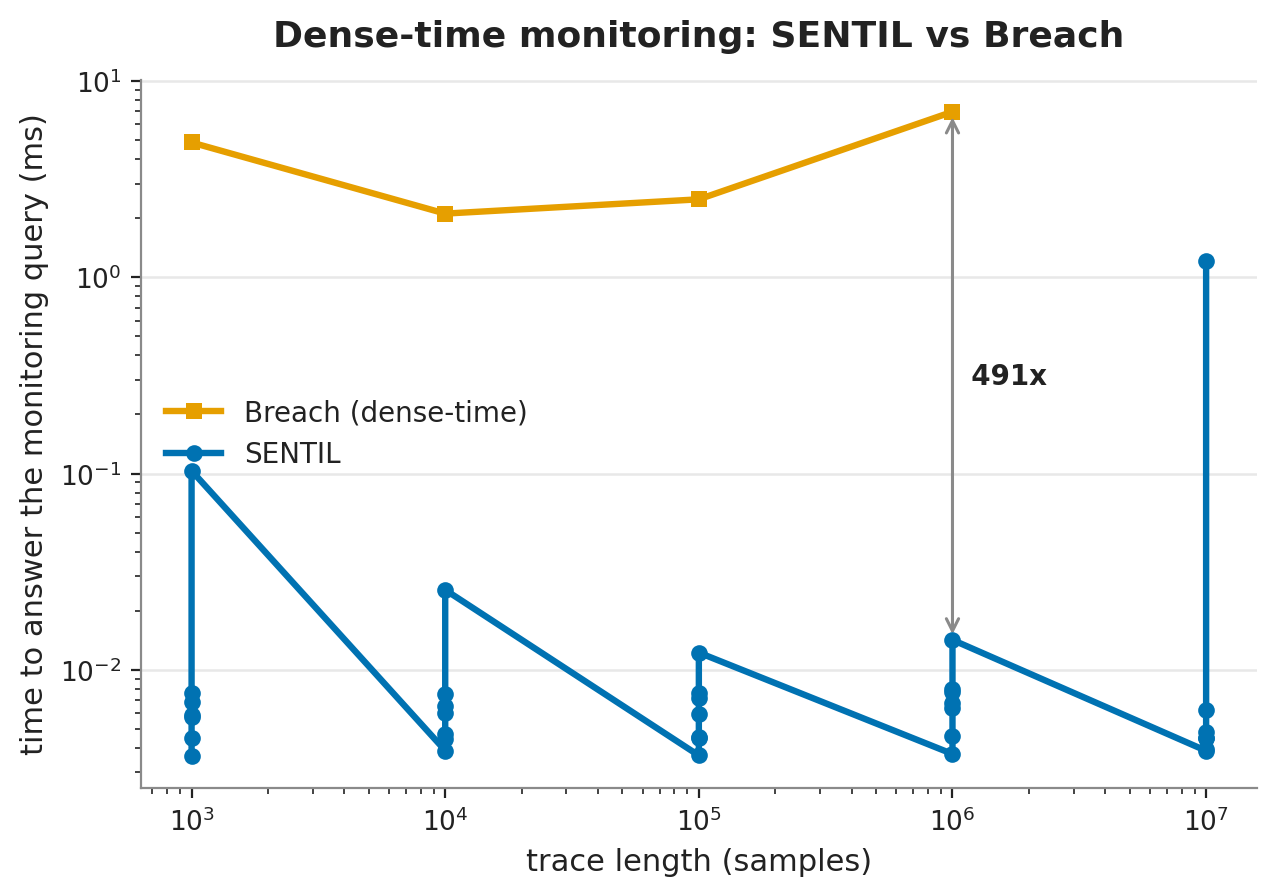
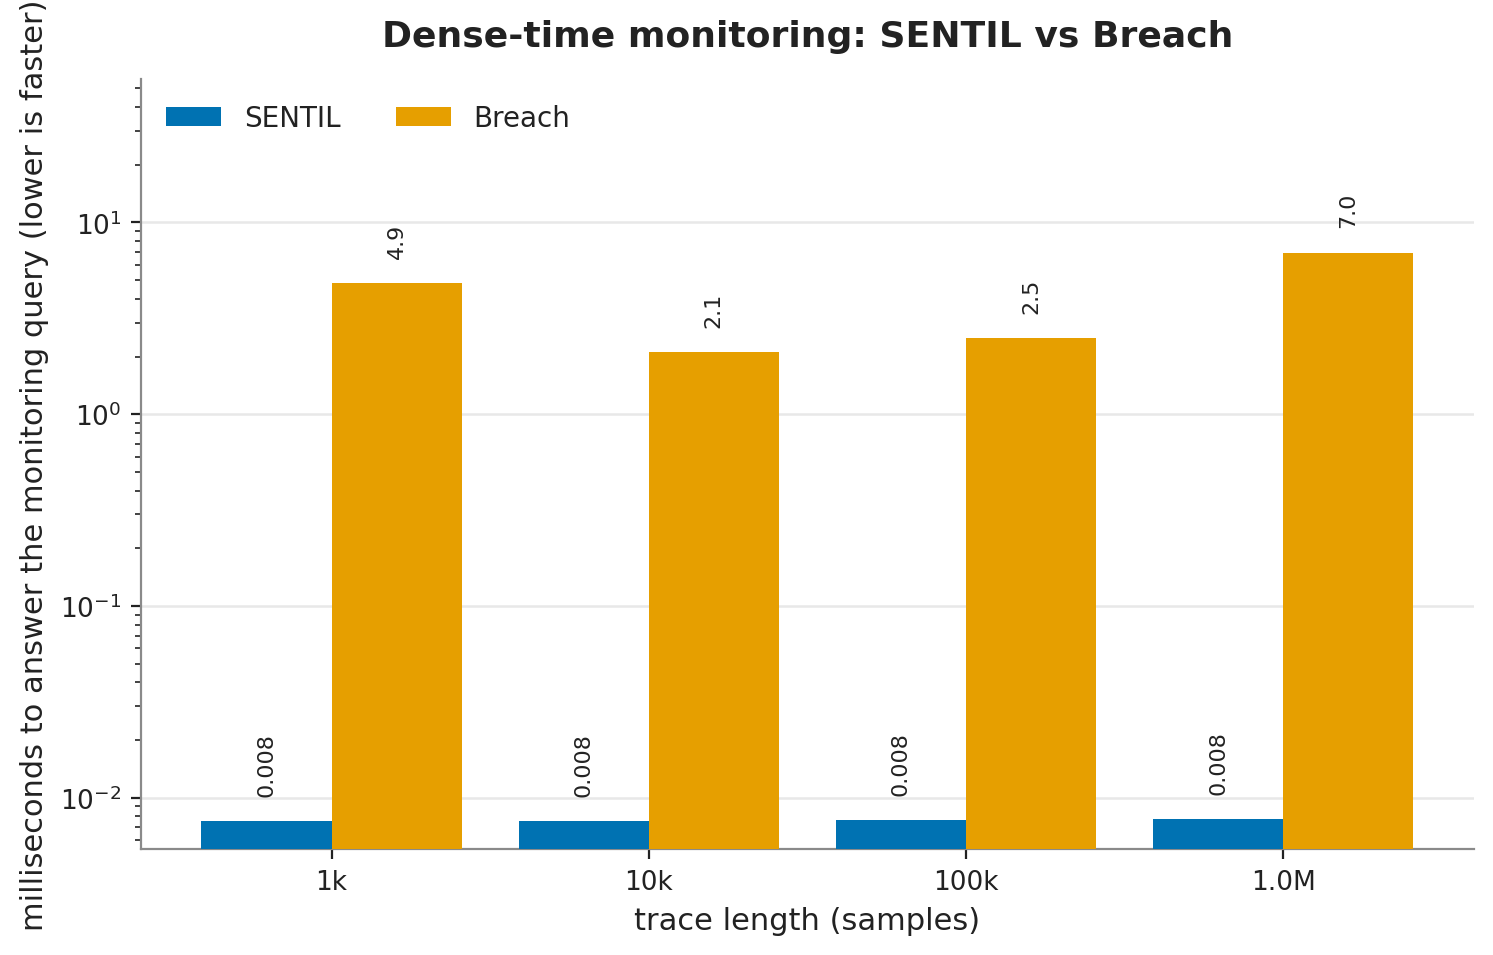
redraw the comparisons as labeled bar charts with the real times, drop the abstract summary

diff --git a/benchmarks/runners/plot.py b/benchmarks/runners/plot.py
@@ -30,44 +30,70 @@ def length_series(records, tool, lang, question, benchmark="scalability/length")
     pts = sorted((r["size"], r["timing"]["mean_ms"]) for r in rows)
     return [p[0] for p in pts], [p[1] for p in pts]
 
-def discrete_offline(records):
-    sx, sy = length_series(records, "sentil", "full_signal")
-    rx, ry = length_series(records, "rtamt", "full_signal")
-    mx, my = length_series(records, "moonlight", "full_signal")
-    if not sx or not rx:
-        return
-    fig, ax = plt.subplots()
-    ax.plot(rx, ry, color=style.TOOL["rtamt"], marker="s", label="RTAMT")
-    if mx:
-        ax.plot(mx, my, color=style.TOOL["moonlight"], marker="^", label="MoonLight")
-    style.hero_line(ax, sx, sy, "SENTIL")
-    shared = sorted(set(sx) & set(rx))[-1]
-    style.annotate_speedup(ax, shared, dict(zip(sx, sy))[shared], dict(zip(rx, ry))[shared],
-                           f"{dict(zip(rx, ry))[shared] / dict(zip(sx, sy))[shared]:.0f}x")
-    ax.set_xscale("log"); ax.set_yscale("log")
+def _series(records, tool, lang, question, benchmark="scalability/length"):
+    return {r["size"]: r["timing"]["mean_ms"] for r in records
+            if r.get("tool") == tool and r.get("language") == lang
+            and r.get("benchmark") == benchmark and r.get("question") == question}
+
+def _fmt_ms(v):
+    if v >= 100:
+        return f"{v:,.0f}"
+    if v >= 1:
+        return f"{v:.1f}"
+    return f"{v:.3f}".rstrip("0").rstrip(".")
+
+def _human_size(n):
+    if n >= 1_000_000:
+        return f"{n // 1_000_000}M"
+    if n >= 1000:
+        return f"{n // 1000}k"
+    return str(int(n))
+
+def bar_comparison(specs, sizes, ylabel, title, fname):
+    # specs is [(label, {size: ms}, color)]
+    fig, ax = plt.subplots(figsize=(8.6, 5.0))
+    m = len(specs)
+    width = 0.82 / m
+    top = 0.0
+    for i, (label, data, color) in enumerate(specs):
+        xs = [j + i * width for j in range(len(sizes))]
+        vals = [data.get(s, 0.0) for s in sizes]
+        top = max(top, max(vals))
+        rects = ax.bar(xs, vals, width=width, label=label, color=color, zorder=3)
+        for rect, v in zip(rects, vals):
+            if v > 0:
+                ax.text(rect.get_x() + rect.get_width() / 2, v * 1.35, _fmt_ms(v),
+                        ha="center", va="bottom", fontsize=8, rotation=90, color=style.INK)
+    ax.set_yscale("log")
+    ax.set_ylim(top=top * 8)
+    ax.set_xticks([j + width * (m - 1) / 2 for j in range(len(sizes))])
+    ax.set_xticklabels([_human_size(s) for s in sizes])
     ax.set_xlabel("trace length (samples)")
-    ax.set_ylabel("time for the whole robustness signal (ms)")
-    ax.set_title("Offline discrete STL: SENTIL vs RTAMT and MoonLight")
-    ax.legend(loc="upper left")
-    save(fig, "discrete_offline.png")
+    ax.set_ylabel(ylabel)
+    ax.set_title(title)
+    ax.legend(loc="upper left", ncol=m)
+    save(fig, fname)
+
+def discrete_offline(records):
+    s, rt = _series(records, "sentil", "full_signal"), _series(records, "rtamt", "full_signal")
+    ml = _series(records, "moonlight", "full_signal")
+    if not s or not rt:
+        return
+    sizes = sorted(set(s) & set(rt))
+    specs = [("SENTIL", s, style.TOOL["sentil"]), ("RTAMT", rt, style.TOOL["rtamt"])]
+    if ml:
+        specs.append(("MoonLight", ml, style.TOOL["moonlight"]))
+    bar_comparison(specs, sizes, "milliseconds to score the whole signal (lower is faster)",
+                   "Offline discrete STL: SENTIL vs RTAMT and MoonLight", "discrete_offline.png")
 
 def dense_offline(records):
-    sx, sy = length_series(records, "sentil", "monitoring")
-    bx, by = length_series(records, "breach", "monitoring")
-    if not sx or not bx:
+    s, br = _series(records, "sentil", "monitoring"), _series(records, "breach", "monitoring")
+    if not s or not br:
         return
-    fig, ax = plt.subplots()
-    ax.plot(bx, by, color=style.TOOL["breach"], marker="s", label="Breach (dense-time)")
-    style.hero_line(ax, sx, sy, "SENTIL")
-    shared = sorted(set(sx) & set(bx))[-1]
-    style.annotate_speedup(ax, shared, dict(zip(sx, sy))[shared], dict(zip(bx, by))[shared],
-                           f"{dict(zip(bx, by))[shared] / dict(zip(sx, sy))[shared]:.0f}x")
-    ax.set_xscale("log"); ax.set_yscale("log")
-    ax.set_xlabel("trace length (samples)")
-    ax.set_ylabel("time to answer the monitoring query (ms)")
-    ax.set_title("Dense-time monitoring: SENTIL vs Breach")
-    ax.legend(loc="center left")
-    save(fig, "dense_offline.png")
+    sizes = sorted(set(s) & set(br))
+    bar_comparison([("SENTIL", s, style.TOOL["sentil"]), ("Breach", br, style.TOOL["breach"])],
+                   sizes, "milliseconds to answer the monitoring query (lower is faster)",
+                   "Dense-time monitoring: SENTIL vs Breach", "dense_offline.png")
 
 def dense_cost(records):
     dense = sorted((r["size"], r["timing"]["mean_ms"]) for r in records if r.get("benchmark") == "dense/length")
@@ -192,55 +218,18 @@ def smc_circadian(records):
     p = next((r for r in records if r.get("benchmark") == "smc/circadian" and r.get("tool") == "prism"), None)
     if not s or not p:
         return
-    fig, ax = plt.subplots(figsize=(5.6, 4.6))
-    tools, times, probs = ["PRISM", "SENTIL"], [p["time_ms"], s["time_ms"]], [p["probability"], s["probability"]]
-    bars = ax.bar(tools, times, color=[style.TOOL["prism"], style.TOOL["sentil"]], width=0.52)
-    ax.set_yscale("log")
-    ax.set_ylabel("time for 10,000 samples (ms)")
-    ax.set_title("SMC on the circadian CTMC, same model and property")
-    for b, t, pr in zip(bars, times, probs):
-        ax.text(b.get_x() + b.get_width() / 2, t * 1.15, f"P = {pr:.3f}\n{t:.0f} ms", ha="center", va="bottom", fontsize=9.5, color=style.INK)
-    ax.set_ylim(top=max(times) * 3)
+    fig, ax = plt.subplots(figsize=(5.8, 4.8))
+    tools = ["SENTIL", "PRISM"]
+    secs = [s["time_ms"] / 1000.0, p["time_ms"] / 1000.0]
+    probs = [s["probability"], p["probability"]]
+    rects = ax.bar(tools, secs, color=[style.TOOL["sentil"], style.TOOL["prism"]], width=0.5, zorder=3)
+    ax.set_ylabel("seconds for 10,000 samples (lower is faster)")
+    ax.set_title("Statistical model checking the circadian CTMC")
+    ax.set_ylim(top=max(secs) * 1.25)
+    for rect, sec, pr in zip(rects, secs, probs):
+        ax.text(rect.get_x() + rect.get_width() / 2, sec + max(secs) * 0.02,
+                f"{sec:.1f} s\nP = {pr:.3f}", ha="center", va="bottom", fontsize=10, color=style.INK)
     save(fig, "smc_circadian.png")
-
-def comparison_summary(records):
-    # One picture of SENTIL against every baseline that runs, each at its largest common
-    # size. The comparisons answer different questions, so each bar names its own.
-    def series(tool, q, bench="scalability/length"):
-        return {r["size"]: r["timing"]["mean_ms"] for r in records
-                if r.get("tool") == tool and r.get("benchmark") == bench and r.get("question") == q}
-    s_full, s_mon = series("sentil", "full_signal"), series("sentil", "monitoring")
-    bars = []
-    for tool, base, label in [
-        ("rtamt", series("rtamt", "full_signal"), "RTAMT\ndiscrete, whole signal"),
-        ("moonlight", series("moonlight", "full_signal"), "MoonLight\ndiscrete, whole signal"),
-        ("breach", series("breach", "monitoring"), "Breach\ndense monitoring"),
-    ]:
-        shared = sorted(set(s_full if "signal" in label else s_mon) & set(base))
-        if not shared:
-            continue
-        n = shared[-1]
-        ref = s_full[n] if "signal" in label else s_mon[n]
-        bars.append((label, base[n] / ref, style.TOOL[tool]))
-    sc = next((r for r in records if r.get("benchmark") == "smc/circadian" and r.get("tool") == "sentil"), None)
-    pr = next((r for r in records if r.get("benchmark") == "smc/circadian" and r.get("tool") == "prism"), None)
-    if sc and pr:
-        bars.append(("PRISM\nstatistical model checking", pr["time_ms"] / sc["time_ms"], style.TOOL["prism"]))
-    if not bars:
-        return
-    bars.sort(key=lambda b: b[1])
-    fig, ax = plt.subplots(figsize=(7.6, 4.8))
-    ys = range(len(bars))
-    ax.barh(list(ys), [b[1] for b in bars], color=[b[2] for b in bars], height=0.62)
-    ax.set_yticks(list(ys))
-    ax.set_yticklabels([b[0] for b in bars])
-    ax.set_xscale("log")
-    ax.set_xlabel("times faster than the baseline (log scale)")
-    ax.set_title("SENTIL against every baseline that runs")
-    for y, b in zip(ys, bars):
-        ax.text(b[1] * 1.1, y, f"{b[1]:.0f}x", va="center", ha="left", fontsize=10, fontweight="semibold", color=style.INK)
-    ax.set_xlim(right=max(b[1] for b in bars) * 2.2)
-    save(fig, "comparison_summary.png")
 
 def synthesis(records):
     rows = [r for r in records if "mode" in r]
@@ -263,8 +252,7 @@ def main():
         print("no results found under", RESULTS)
         return
     for figure in (discrete_offline, dense_offline, dense_cost, streaming_online, scaling,
-                   memory, smc_throughput, smc_accuracy, smc_circadian, comparison_summary,
-                   particles, synthesis):
+                   memory, smc_throughput, smc_accuracy, smc_circadian, particles, synthesis):
         figure(records)
 
 if __name__ == "__main__":
